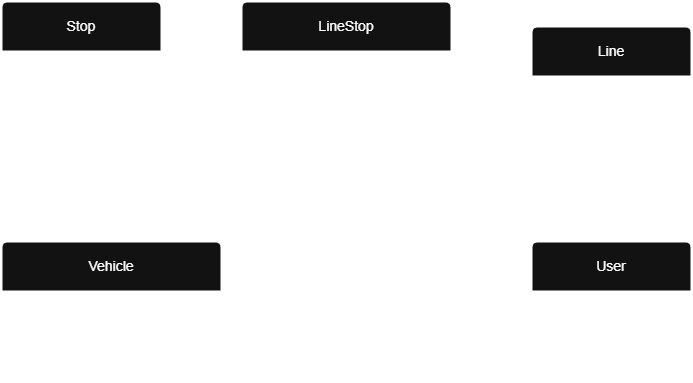
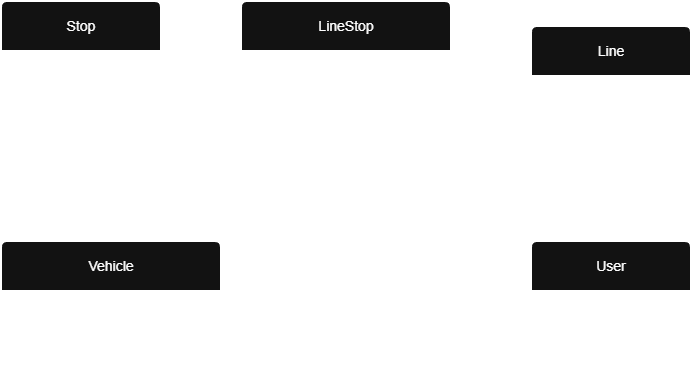
Stop & User & Behicle controller diagrams

diff --git a/docs/SystemArchitecture.md b/docs/SystemArchitecture.md
@@ -33,3 +33,21 @@
 <img src="images/Component_LineController.png" alt="Line Controller Diagram">
 
 <br/><br/><br/>
+
+### Vehicle Controller
+
+<img src="images/Component_VehicleController.png" alt="Vehicle Controller Diagram">
+
+<br/><br/><br/>
+
+### Stop Controller
+
+<img src="images/Component_StopController.png" alt="Stop Controller Diagram">
+
+<br/><br/><br/>
+
+### User Controller
+
+<img src="images/Component_UserController.png" alt="User Controller Diagram">
+
+<br/><br/><br/>